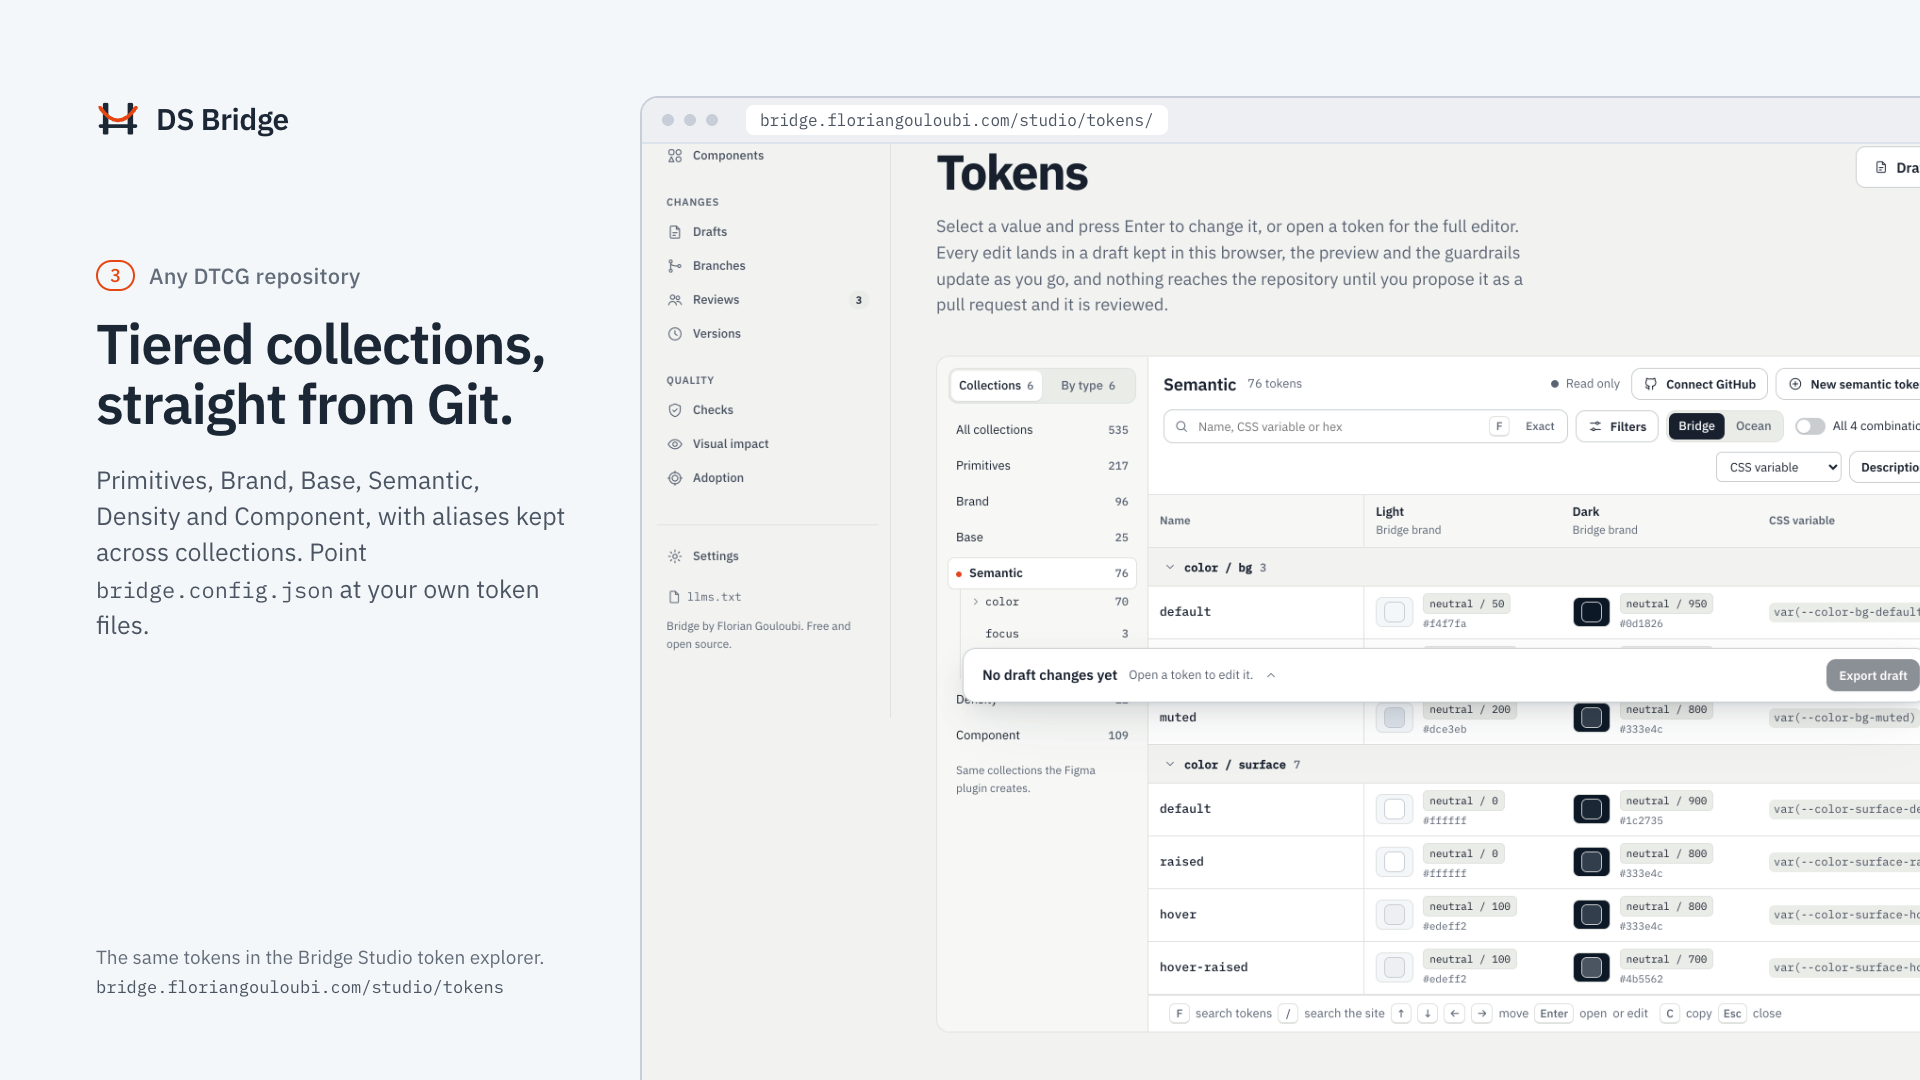
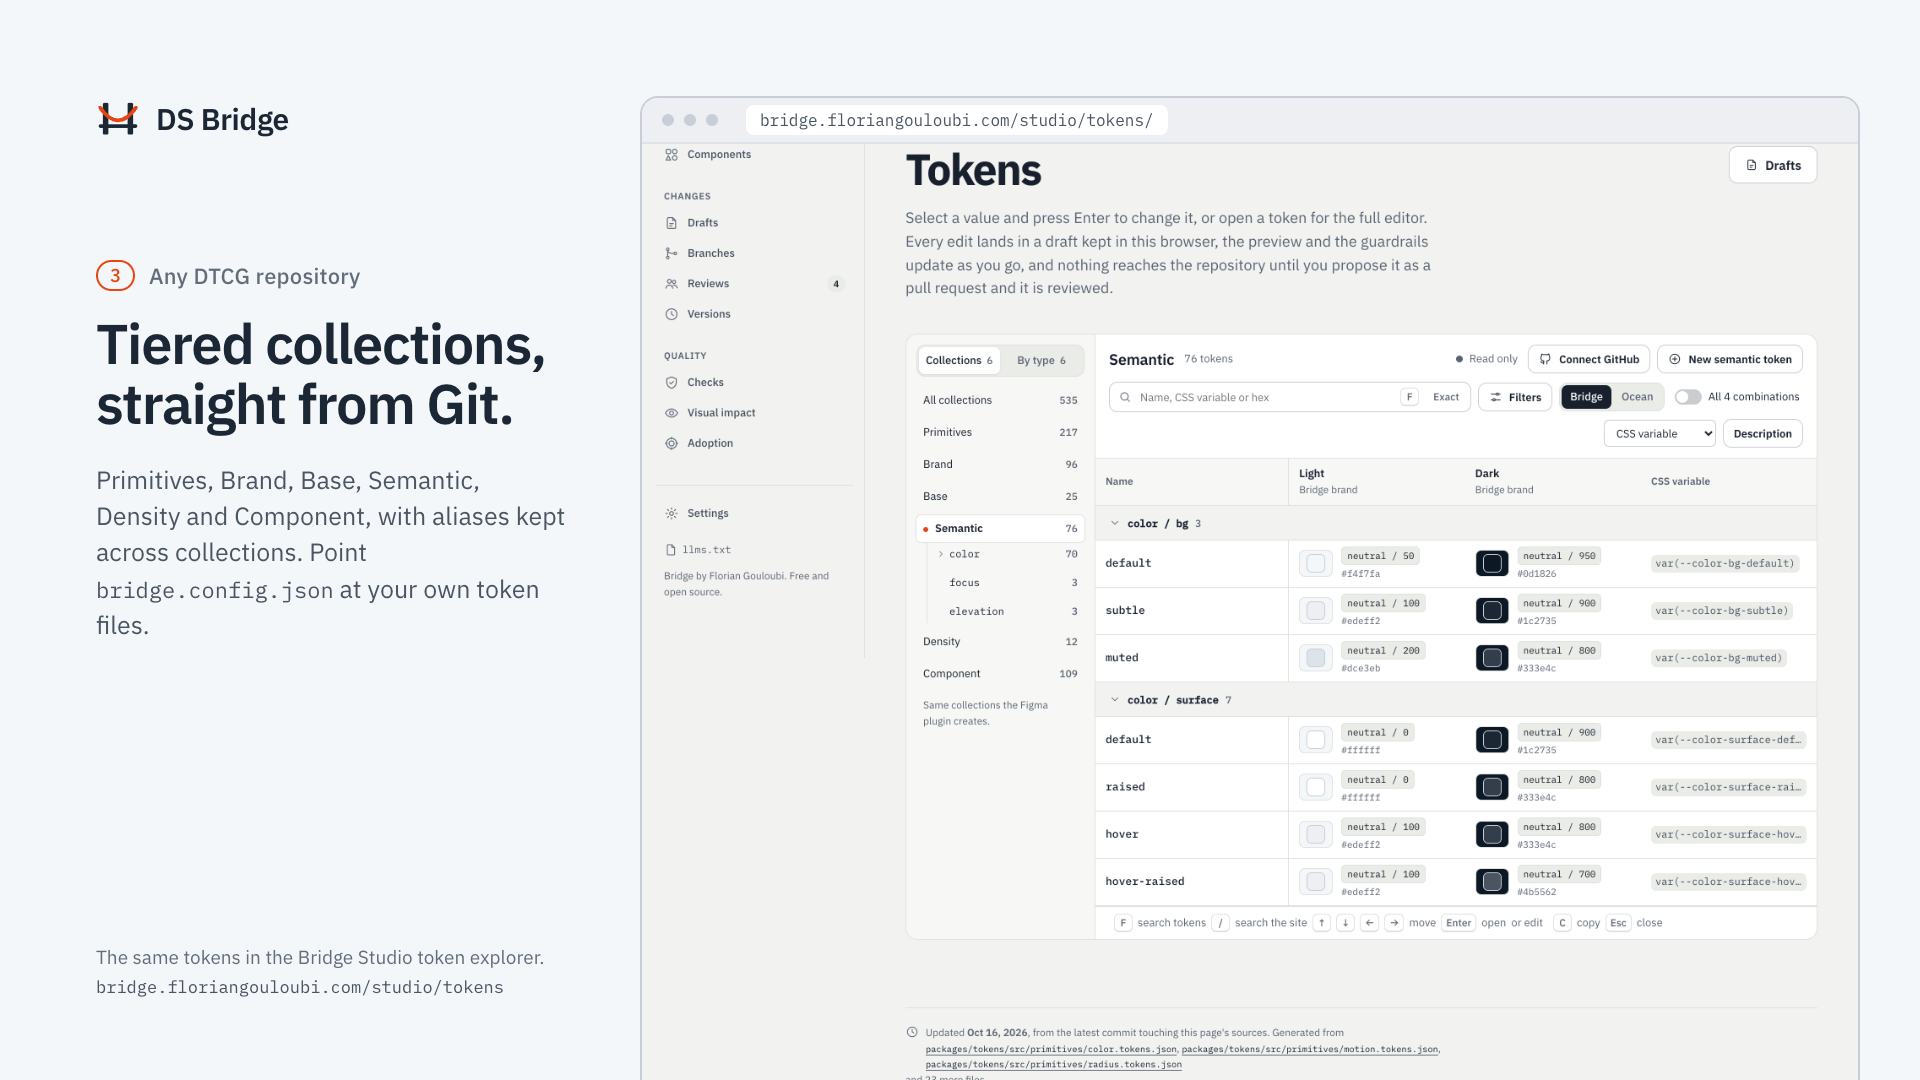
chore(figma-plugin): regenerate gallery 3 without the draft tray or right crop
web-shots.mjs hides the draft tray when it is empty (it is fixed to the viewport, so the full-page
capture painted it over the table). The tokens browser frame now fits inside the canvas, so the Drafts
and Description buttons are no longer cut.

Claude-Session: https://claude.ai/code/session_01WdLeRL5DKEJ3wYbg2pTxHK

diff --git a/apps/figma-plugin/community/src/art.html b/apps/figma-plugin/community/src/art.html
@@ -79,6 +79,8 @@
   .shot { position: absolute; background: var(--deck); border: 2px solid var(--steel-300); overflow: hidden; }
   .shot img { display: block; width: 100%; }
   .browser { left: 640px; top: 96px; width: 1360px; height: 1100px; border-radius: 18px 0 0 0; border-right: 0; border-bottom: 0; }
+  /* Fitted frame: the whole page width stays inside the canvas (no bleed on the right). */
+  .browser.fit { width: 1220px; border-right: 2px solid var(--steel-300); border-radius: 18px 18px 0 0; }
   .browser .bar { height: 46px; display: flex; align-items: center; gap: 10px; padding: 0 20px; border-bottom: 2px solid var(--steel-200); background: var(--steel-100); }
   .browser .page { height: calc(100% - 46px); overflow: hidden; }
   .browser .bar i { width: 12px; height: 12px; border-radius: 99px; background: var(--steel-300); }
@@ -187,7 +189,7 @@
     <p class="lead">Primitives, Brand, Base, Semantic, Density and Component, with aliases kept across collections. Point <span class="mono" style="font-size:22px">bridge.config.json</span> at your own token files.</p>
   </div>
   <p class="foot">The same tokens in the Bridge Studio token explorer.<br><span class="mono">bridge.floriangouloubi.com/studio/tokens</span></p>
-  <div class="shot browser"><div class="bar"><i></i><i></i><i></i><span class="url">bridge.floriangouloubi.com/studio/tokens/</span></div><div class="page"><img data-shot="web-tokens-full.png" alt="" style="margin-top:-190px"></div></div>
+  <div class="shot browser fit"><div class="bar"><i></i><i></i><i></i><span class="url">bridge.floriangouloubi.com/studio/tokens/</span></div><div class="page"><img data-shot="web-tokens-full.png" alt="" style="margin-top:-170px"></div></div>
 </div>
 
 <script>
